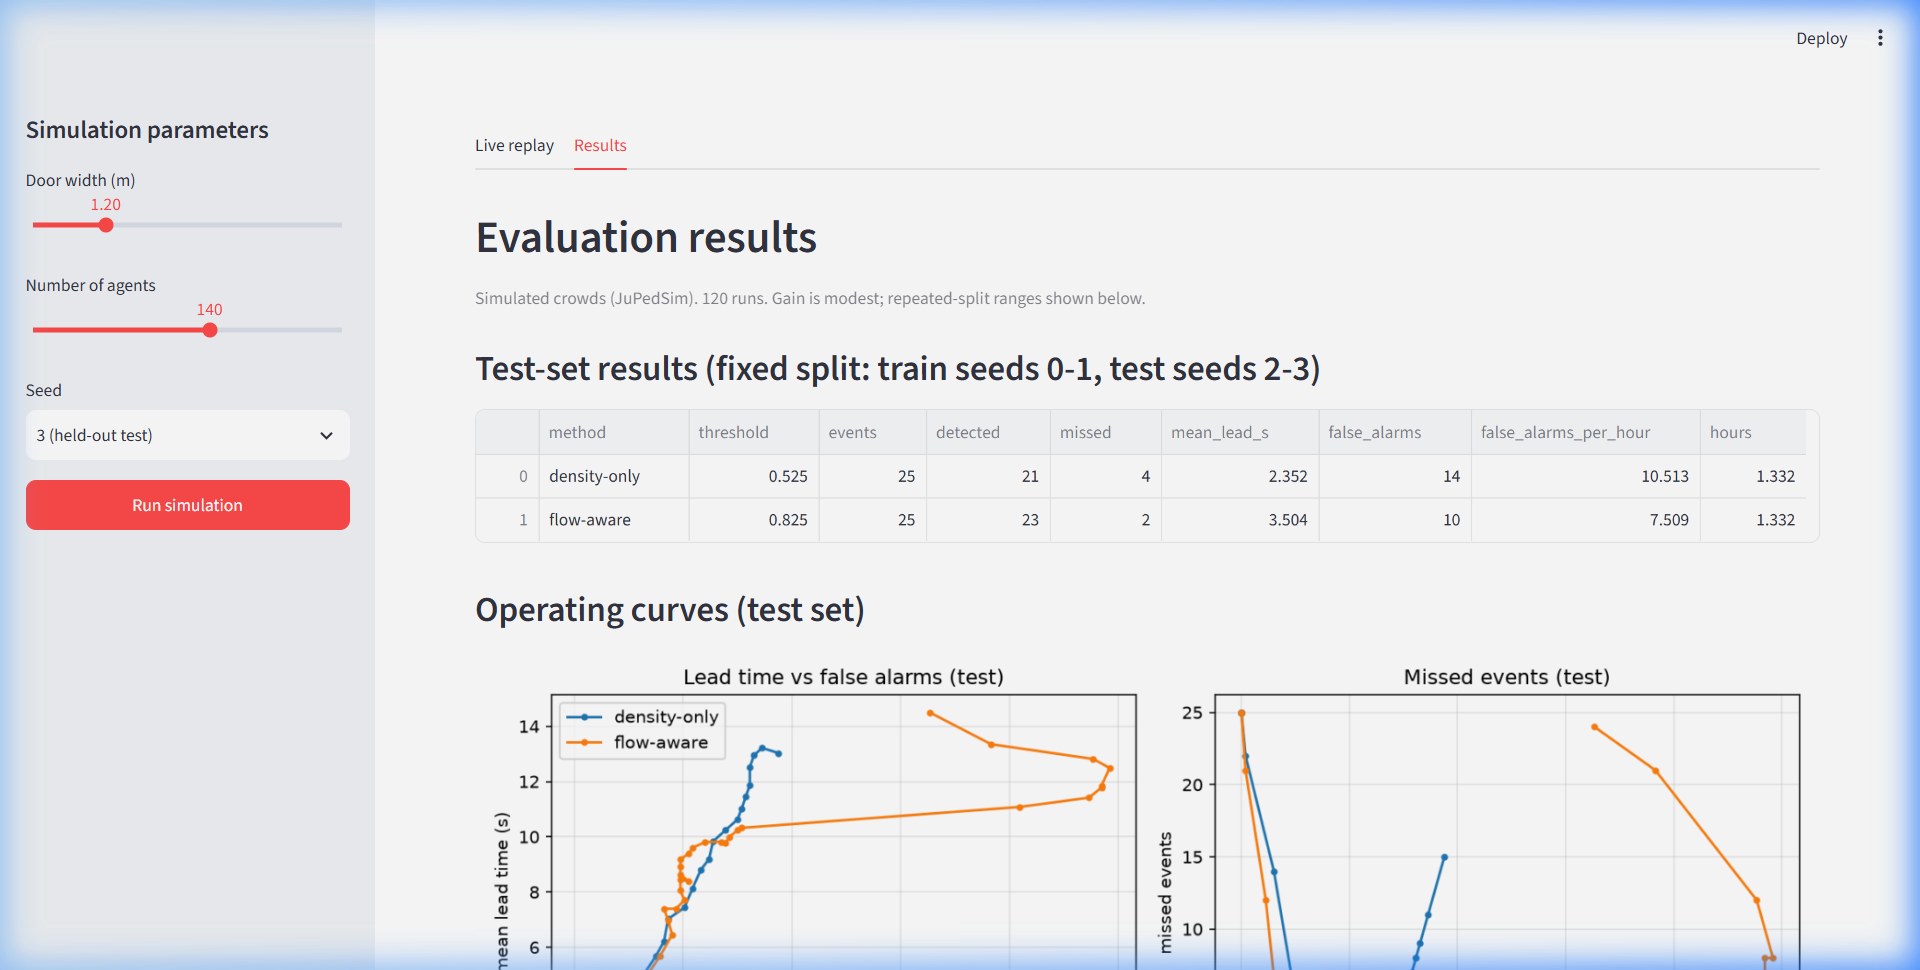
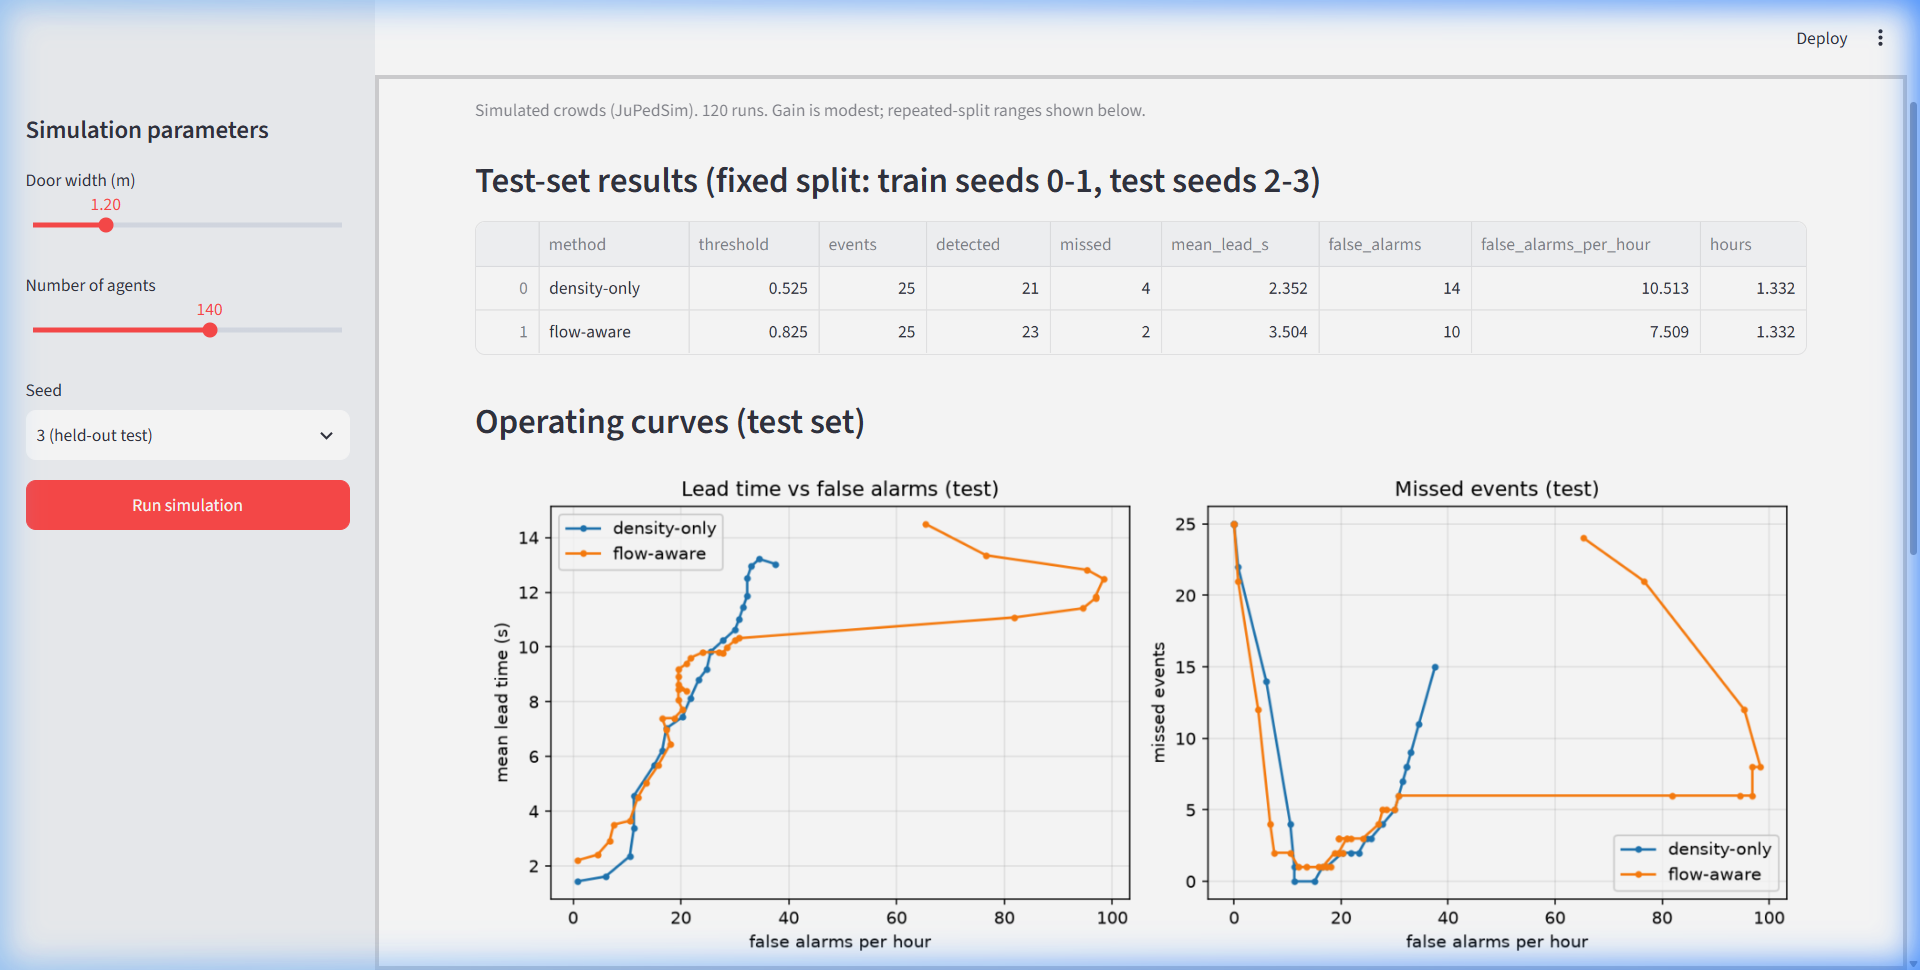
fix: score lines in Live replay chart; verified screenshots

diff --git a/app.py b/app.py
@@ -218,82 +218,52 @@ def tab_live():
                 f"&ensp; score {scores[idx]:.3f} / thr {thr}"
             )
 
-    # Score chart
+    # ── Score chart (matplotlib — avoids Altair layer/scale conflicts) ─────────
     st.subheader("Risk scores over time")
-    chart_df = pd.DataFrame({
-        "density-only": sc_den,
-        "flow-aware":   sc_flow,
-        "thr_density":  THR_DENSITY,
-        "thr_flow":     THR_FLOW,
-    }, index=t)
+    import matplotlib
+    matplotlib.use("Agg")
+    import matplotlib.pyplot as plt
 
-    import altair as alt
+    COL_DEN  = "#4c72b0"   # blue   — density-only
+    COL_FLOW = "#dd8452"   # orange — flow-aware
 
-    base = alt.Chart(chart_df.reset_index().rename(columns={"index": "t"}))
+    fig, ax = plt.subplots(figsize=(10, 2.8))
 
-    # Melt scores for colour encoding
-    scores_long = chart_df[["density-only", "flow-aware"]].reset_index()
-    scores_long = scores_long.rename(columns={"index": "t"})
-    scores_long = scores_long.melt("t", var_name="method", value_name="score")
+    # score lines
+    ax.plot(t, sc_den,  color=COL_DEN,  linewidth=1.5, label="density-only")
+    ax.plot(t, sc_flow, color=COL_FLOW, linewidth=1.5, label="flow-aware")
 
-    line_chart = (
-        alt.Chart(scores_long)
-        .mark_line()
-        .encode(
-            x=alt.X("t:Q", title="Time (s)"),
-            y=alt.Y("score:Q", title="Score", scale=alt.Scale(domain=[0, 1])),
-            color=alt.Color("method:N"),
-            tooltip=["t:Q", "method:N", alt.Tooltip("score:Q", format=".3f")],
-        )
-    )
+    # threshold dashes
+    ax.axhline(THR_DENSITY, color=COL_DEN,  linestyle="--", linewidth=1.0,
+               alpha=0.7, label=f"thr density ({THR_DENSITY})")
+    ax.axhline(THR_FLOW,    color=COL_FLOW, linestyle="--", linewidth=1.0,
+               alpha=0.7, label=f"thr flow ({THR_FLOW})")
 
-    # Threshold rules
-    rules_data = pd.DataFrame([
-        {"thr": THR_DENSITY, "method": "density-only thr"},
-        {"thr": THR_FLOW,    "method": "flow-aware thr"},
-    ])
-    thr_rules = (
-        alt.Chart(rules_data)
-        .mark_rule(strokeDash=[4, 4], opacity=0.6)
-        .encode(y="thr:Q", color=alt.Color("method:N", legend=None))
-    )
-
-    # Alert vertical rules
-    alert_rows = []
-    for a_t in alerts_den:
-        alert_rows.append({"t": a_t, "method": "density-only alert"})
-    for a_t in alerts_flow:
-        alert_rows.append({"t": a_t, "method": "flow-aware alert"})
+    # danger event vertical line
     if not np.isnan(t_event):
-        alert_rows.append({"t": float(t_event), "method": "danger event"})
+        ax.axvline(float(t_event), color="#c44e52", linewidth=2.0,
+                   linestyle="-", label=f"danger t={t_event:.1f}s")
 
-    layers = [line_chart, thr_rules]
-    if alert_rows:
-        alert_df = pd.DataFrame(alert_rows)
-        vert = (
-            alt.Chart(alert_df)
-            .mark_rule(strokeWidth=2)
-            .encode(
-                x="t:Q",
-                color=alt.Color("method:N", scale=alt.Scale(
-                    domain=["density-only alert", "flow-aware alert", "danger event"],
-                    range=["#dd8452", "#4c72b0", "#c44e52"],
-                )),
-                tooltip=["t:Q", "method:N"],
-            )
-        )
-        layers.append(vert)
+    # alert markers
+    for a_t in alerts_den:
+        ax.axvline(a_t, color=COL_DEN,  linewidth=1.5, linestyle=":",
+                   alpha=0.9, label=f"density alert t={a_t:.1f}s")
+    for a_t in alerts_flow:
+        ax.axvline(a_t, color=COL_FLOW, linewidth=1.5, linestyle=":",
+                   alpha=0.9, label=f"flow alert t={a_t:.1f}s")
 
-    # Current-time marker
-    cur_df = pd.DataFrame({"t": [float(t[idx])]})
-    cur_rule = (
-        alt.Chart(cur_df)
-        .mark_rule(color="gray", strokeDash=[2, 2], opacity=0.7)
-        .encode(x="t:Q")
-    )
-    layers.append(cur_rule)
+    # current-time cursor
+    ax.axvline(float(t[idx]), color="gray", linewidth=1.0, linestyle="--", alpha=0.6)
 
-    st.altair_chart(alt.layer(*layers).properties(height=260), width='stretch')
+    ax.set_xlim(float(t[0]), float(t[-1]))
+    ax.set_ylim(0, 1)
+    ax.set_xlabel("Time (s)")
+    ax.set_ylabel("Score")
+    ax.legend(loc="upper left", fontsize=7, ncol=3)
+    ax.grid(axis="y", alpha=0.25)
+    fig.tight_layout()
+    st.pyplot(fig, use_container_width=True)
+    plt.close(fig)
 
     # Summary text line
     def _fmt_time(lst, label="none"):
